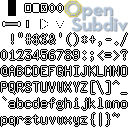
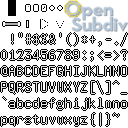
Minor cosmetic fixes to the HUD's font

Changed region(s): [[0.1875, 0.0, 0.5, 0.125]]

diff --git a/examples/common/font_image.cpp b/examples/common/font_image.cpp
@@ -125,16 +125,16 @@ unsigned char font_image[] = {
   0,   0,   0, 255,   0,   0,   0, 255,   0,   0,   0, 255,   0,   0,   0, 255, 
 255, 255, 255, 255, 255, 255, 255, 255, 255, 255, 255, 255, 255, 255, 255, 255, 
 255, 255, 255, 255, 255, 255, 255, 255, 255, 255, 255, 255, 255, 255, 255, 255, 
-  0,   0,   0,   0,   0,   0,   0, 255,   0,   0,   0, 255,   0,   0,   0, 255, 
-  0,   0,   0, 255,   0,   0,   0, 255,   0,   0,   0, 255,   0,   0,   0,   0, 
-  0,   0,   0,   0,   0,   0,   0, 255,   0,   0,   0, 255,   0,   0,   0, 255, 
-  0,   0,   0, 255,   0,   0,   0, 255,   0,   0,   0, 255,   0,   0,   0,   0, 
-  0,   0,   0,   0,   0,   0,   0, 255,   0,   0,   0, 255,   0,   0,   0, 255, 
-  0,   0,   0, 255,   0,   0,   0, 255,   0,   0,   0, 255,   0,   0,   0,   0, 
-  0,   0,   0,   0,   0,   0,   0,   0,   0,   0,   0,   0,   0,   0,   0, 255, 
-  0,   0,   0, 255,   0,   0,   0,   0,   0,   0,   0,   0,   0,   0,   0,   0, 
-  0,   0,   0,   0,   0,   0,   0,   0,   0,   0,   0,   0,   0,   0,   0, 255, 
-  0,   0,   0, 255,   0,   0,   0,   0,   0,   0,   0,   0,  11,  11,  11,   0, 
+  0,   0,   0,   0,   0,   0,   0,   0,   0,   0,   0,   0,   0,   0,   0,   0, 
+  0,   0,   0,   0,   0,   0,   0,   0,   0,   0,   0,   0,   0,   0,   0,   0, 
+  0,   0,   0,   0,   0,   0,   0,   0,   0,   0,   0,   0,   0,   0,   0,   0, 
+  0,   0,   0,   0,   0,   0,   0,   0,   0,   0,   0,   0,   0,   0,   0,   0, 
+  0,   0,   0,   0,   0,   0,   0,   0,   0,   0,   0,   0,   0,   0,   0,   0, 
+  0,   0,   0,   0,   0,   0,   0,   0,   0,   0,   0,   0,   0,   0,   0,   0, 
+  0,   0,   0,   0,   0,   0,   0,   0,   0,   0,   0,   0,   0,   0,   0,   0, 
+  0,   0,   0,   0,   0,   0,   0,   0,   0,   0,   0,   0,   0,   0,   0,   0, 
+  0,   0,   0,   0,   0,   0,   0,   0,   0,   0,   0,   0,   0,   0,   0,   0, 
+  0,   0,   0,   0,   0,   0,   0,   0,   0,   0,   0,   0,  11,  11,  11,   0, 
  16,  16,  16,   0, 243, 217,  25,  21, 221, 199,  31, 134, 153, 151, 101, 162, 
 168, 185, 207, 226, 190, 203, 191, 255, 217, 210, 106, 255, 204, 201, 124, 254, 
 202, 198, 118, 249, 203, 199, 119, 248, 206, 203, 120, 253, 214, 209, 113, 255, 
@@ -157,16 +157,16 @@ unsigned char font_image[] = {
   0,   0,   0, 255,   0,   0,   0, 255,   0,   0,   0, 255,   0,   0,   0, 255, 
 255, 255, 255, 255, 255, 255, 255, 255, 255, 255, 255, 255, 255, 255, 255, 255, 
 255, 255, 255, 255, 255, 255, 255, 255, 255, 255, 255, 255, 255, 255, 255, 255, 
-  0,   0,   0, 255, 255, 255, 255, 255, 255, 255, 255, 255, 255, 255, 255, 255, 
-255, 255, 255, 255, 255, 255, 255, 255, 255, 255, 255, 255,   0,   0,   0, 255, 
-  0,   0,   0, 255, 255, 255, 255, 255, 255, 255, 255, 255, 255, 255, 255, 255, 
-255, 255, 255, 255, 255, 255, 255, 255, 255, 255, 255, 255,   0,   0,   0, 255, 
-  0,   0,   0, 255, 255, 255, 255, 255, 255, 255, 255, 255, 255, 255, 255, 255, 
-255, 255, 255, 255, 255, 255, 255, 255, 255, 255, 255, 255,   0,   0,   0, 255, 
-  0,   0,   0,   0,   0,   0,   0,   0,   0,   0,   0, 255, 255, 255, 255, 255, 
-255, 255, 255, 255,   0,   0,   0, 255,   0,   0,   0,   0,   0,   0,   0,   0, 
-  0,   0,   0,   0,   0,   0,   0,   0,   0,   0,   0, 255, 255, 255, 255, 255, 
-255, 255, 255, 255,   0,   0,   0, 255,   0,   0,   0,   0,  13,  13,  13,   0, 
+  0,   0,   0,   0, 255, 255, 255,   0,   0,   0,   0, 255,   0,   0,   0, 255, 
+  0,   0,   0, 255,   0,   0,   0, 255, 255, 255, 255,   0,   0,   0,   0,   0, 
+  0,   0,   0,   0, 255, 255, 255,   0,   0,   0,   0, 255,   0,   0,   0, 255, 
+  0,   0,   0, 255,   0,   0,   0, 255, 255, 255, 255,   0,   0,   0,   0,   0, 
+  0,   0,   0,   0, 255, 255, 255,   0,   0,   0,   0, 255,   0,   0,   0, 255, 
+  0,   0,   0, 255,   0,   0,   0, 255, 255, 255, 255,   0,   0,   0,   0,   0, 
+  0,   0,   0,   0,   0,   0,   0,   0,   0,   0,   0,   0,   0,   0,   0,   0, 
+  0,   0,   0,   0,   0,   0,   0,   0,   0,   0,   0,   0,   0,   0,   0,   0, 
+  0,   0,   0,   0,   0,   0,   0,   0,   0,   0,   0,   0,   0,   0,   0,   0, 
+  0,   0,   0,   0,   0,   0,   0,   0,   0,   0,   0,   0,  13,  13,  13,   0, 
 241, 216,  25,  23, 226, 203,  30, 147, 143, 140,  91, 144, 169, 187, 211, 232, 
 192, 203, 184, 255, 210, 207, 121, 254, 166, 179, 185, 241, 136, 150, 171, 198, 
 120, 131, 152, 160, 125, 137, 160, 151, 149, 164, 189, 177, 180, 193, 190, 225, 
@@ -189,16 +189,16 @@ unsigned char font_image[] = {
   0,   0,   0, 255,   0,   0,   0, 255,   0,   0,   0, 255,   0,   0,   0, 255, 
 255, 255, 255, 255, 255, 255, 255, 255, 255, 255, 255, 255, 255, 255, 255, 255, 
 255, 255, 255, 255, 255, 255, 255, 255, 255, 255, 255, 255, 255, 255, 255, 255, 
-  0,   0,   0, 255, 255, 255, 255, 255,   0,   0,   0, 255,   0,   0,   0, 255, 
-  0,   0,   0, 255,   0,   0,   0, 255, 255, 255, 255, 255,   0,   0,   0, 255, 
-  0,   0,   0, 255, 255, 255, 255, 255, 255, 255, 255, 255, 255, 255, 255, 255, 
-255, 255, 255, 255, 255, 255, 255, 255, 255, 255, 255, 255,   0,   0,   0, 255, 
-  0,   0,   0, 255, 255, 255, 255, 255,   0,   0,   0, 255,   0,   0,   0, 255, 
-  0,   0,   0, 255,   0,   0,   0, 255, 255, 255, 255, 255,   0,   0,   0, 255, 
-  0,   0,   0,   0,   0,   0,   0, 255, 255, 255, 255, 255,   0,   0,   0, 255, 
-  0,   0,   0, 255, 255, 255, 255, 255,   0,   0,   0, 255,   0,   0,   0,   0, 
-  0,   0,   0,   0,   0,   0,   0, 255, 255, 255, 255, 255,   0,   0,   0, 255, 
-  0,   0,   0, 255, 255, 255, 255, 255,   0,   0,   0, 255,  15,  15,  15,   0, 
+  0,   0,   0,   0,   0,   0,   0, 255, 255, 255, 255, 255, 255, 255, 255, 255, 
+255, 255, 255, 255, 255, 255, 255, 255,   0,   0,   0, 255,   0,   0,   0,   0, 
+  0,   0,   0,   0,   0,   0,   0, 255, 255, 255, 255, 255, 255, 255, 255, 255, 
+255, 255, 255, 255, 255, 255, 255, 255,   0,   0,   0, 255,   0,   0,   0,   0, 
+  0,   0,   0,   0,   0,   0,   0, 255, 255, 255, 255, 255, 255, 255, 255, 255, 
+255, 255, 255, 255, 255, 255, 255, 255,   0,   0,   0, 255,   0,   0,   0,   0, 
+  0,   0,   0,   0,   0,   0,   0,   0,   0,   0,   0,   0,   0,   0,   0, 255, 
+  0,   0,   0, 255,   0,   0,   0,   0,   0,   0,   0,   0,   0,   0,   0,   0, 
+  0,   0,   0,   0,   0,   0,   0,   0,   0,   0,   0,   0,   0,   0,   0, 255, 
+  0,   0,   0, 255,   0,   0,   0,   0,   0,   0,   0,   0,  15,  15,  15,   0, 
 238, 214,  26, 120, 181, 165,  43, 182, 176, 181, 146, 188, 195, 204, 176, 255, 
 208, 206, 127, 254, 161, 174, 178, 236,  89,  92, 101, 142,  41,  35,  29,  46, 
   0,   0,   0,   5,  20,  20,  20,   0,   0,   0,   0,   9, 124, 135, 151,  74, 
@@ -221,16 +221,16 @@ unsigned char font_image[] = {
   0,   0,   0, 255,   0,   0,   0, 255,   0,   0,   0, 255,   0,   0,   0, 255, 
 255, 255, 255, 255, 255, 255, 255, 255, 255, 255, 255, 255, 255, 255, 255, 255, 
 255, 255, 255, 255, 255, 255, 255, 255, 255, 255, 255, 255, 255, 255, 255, 255, 
-  0,   0,   0, 255, 255, 255, 255, 255,   0,   0,   0, 255, 255, 255, 255,   0, 
-255, 255, 255,   0,   0,   0,   0, 255, 255, 255, 255, 255,   0,   0,   0, 255, 
-  0,   0,   0, 255, 255, 255, 255, 255, 255, 255, 255, 255, 255, 255, 255, 255, 
-255, 255, 255, 255, 255, 255, 255, 255, 255, 255, 255, 255,   0,   0,   0, 255, 
-  0,   0,   0, 255, 255, 255, 255, 255,   0,   0,   0, 255,   0,   0,   0,   0, 
-  0,   0,   0, 255, 255, 255, 255, 255, 255, 255, 255, 255,   0,   0,   0, 255, 
-  0,   0,   0, 255, 255, 255, 255, 255,   0,   0,   0, 255, 255, 255, 255,   0, 
-255, 255, 255,   0,   0,   0,   0, 255, 255, 255, 255, 255,   0,   0,   0, 255, 
-  0,   0,   0, 255, 255, 255, 255, 255,   0,   0,   0, 255, 255, 255, 255, 255, 
-255, 255, 255, 255,   0,   0,   0, 255, 255, 255, 255, 255,   0,   0,   0, 255, 
+  0,   0,   0,   0,   0,   0,   0, 255, 255, 255, 255, 255, 127, 127, 127,   0, 
+127, 127, 127, 255, 255, 255, 255, 255,   0,   0,   0, 255,   0,   0,   0,   0, 
+  0,   0,   0,   0,   0,   0,   0, 255, 255, 255, 255, 255, 255, 255, 255, 255, 
+255, 255, 255, 255, 255, 255, 255, 255,   0,   0,   0, 255,   0,   0,   0,   0, 
+  0,   0,   0,   0,   0,   0,   0, 255, 255, 255, 255, 255,   0,   0,   0,   0, 
+127, 127, 127, 255, 255, 255, 255, 255,   0,   0,   0, 255,   0,   0,   0,   0, 
+  0,   0,   0,   0,   0,   0,   0,   0,   0,   0,   0, 255, 255, 255, 255, 255, 
+255, 255, 255, 255,   0,   0,   0, 255,   0,   0,   0,   0,   0,   0,   0,   0, 
+  0,   0,   0,   0,   0,   0,   0,   0,   0,   0,   0, 255, 255, 255, 255, 255, 
+255, 255, 255, 255,   0,   0,   0, 255,   0,   0,   0,   0,   0,   0,   0,   0, 
 234, 211,  28, 137, 127, 123,  78, 140, 204, 206, 147, 255, 219, 209,  98, 254, 
 178, 194, 204, 251, 100, 105, 114, 166,  47,  42,  35,  24,  20,  20,  20,   0, 
  19,  19,  19,   0,  18,  18,  18,   0,  19,  19,  19,   0,  21,  21,  21,   0, 
@@ -253,16 +253,16 @@ unsigned char font_image[] = {
   0,   0,   0, 255,   0,   0,   0, 255,   0,   0,   0, 255,   0,   0,   0, 255, 
 255, 255, 255, 255, 255, 255, 255, 255, 255, 255, 255, 255, 255, 255, 255, 255, 
 255, 255, 255, 255, 255, 255, 255, 255, 255, 255, 255, 255, 255, 255, 255, 255, 
-  0,   0,   0, 255, 255, 255, 255, 255,   0,   0,   0, 255, 255, 255, 255,   0, 
-255, 255, 255,   0,   0,   0,   0, 255, 255, 255, 255, 255,   0,   0,   0, 255, 
-  0,   0,   0, 255, 255, 255, 255, 255, 255, 255, 255, 255, 255, 255, 255, 255, 
-255, 255, 255, 255, 255, 255, 255, 255, 255, 255, 255, 255,   0,   0,   0, 255, 
+  0,   0,   0,   0,   0,   0,   0, 255, 255, 255, 255, 255, 127, 127, 127,   0, 
+127, 127, 127,   0, 255, 255, 255, 255,   0,   0,   0, 255,   0,   0,   0,   0, 
+  0,   0,   0,   0,   0,   0,   0, 255, 255, 255, 255, 255, 255, 255, 255, 255, 
+255, 255, 255, 255, 255, 255, 255, 255,   0,   0,   0, 255,   0,   0,   0,   0, 
+  0,   0,   0,   0,   0,   0,   0, 255, 255, 255, 255, 255,   0,   0,   0,   0, 
   0,   0,   0, 255, 255, 255, 255, 255,   0,   0,   0, 255,   0,   0,   0,   0, 
-  0,   0,   0, 255, 255, 255, 255, 255, 255, 255, 255, 255,   0,   0,   0, 255, 
-  0,   0,   0, 255, 255, 255, 255, 255,   0,   0,   0, 255, 255, 255, 255,   0, 
-255, 255, 255,   0,   0,   0,   0, 255, 255, 255, 255, 255,   0,   0,   0, 255, 
-  0,   0,   0, 255, 255, 255, 255, 255,   0,   0,   0, 255, 255, 255, 255, 255, 
-255, 255, 255, 255,   0,   0,   0, 255, 255, 255, 255, 255,   0,   0,   0, 255, 
+  0,   0,   0,   0,   0,   0,   0, 255, 255, 255, 255, 255, 255, 255, 255,   0, 
+255, 255, 255,   0, 255, 255, 255, 255,   0,   0,   0, 255,   0,   0,   0,   0, 
+  0,   0,   0,   0,   0,   0,   0, 255, 255, 255, 255, 255, 255, 255, 255, 255, 
+255, 255, 255, 255, 255, 255, 255, 255,   0,   0,   0, 255,   0,   0,   0,   0, 
 234, 210,  28, 136, 117, 127, 145, 126, 179, 198, 221, 255, 210, 207, 121, 254, 
 162, 179, 200, 238,  61,  58,  56,  86,  12,  12,  12,   0,  18,  18,  18,   0, 
  21,  21,  21,   0,  22,  22,  22,   0,  19,  19,  19,   0,  20,  20,  20,   0, 
@@ -285,16 +285,16 @@ unsigned char font_image[] = {
   0,   0,   0, 255,   0,   0,   0, 255,   0,   0,   0, 255,   0,   0,   0, 255, 
 255, 255, 255, 255, 255, 255, 255, 255, 255, 255, 255, 255, 255, 255, 255, 255, 
 255, 255, 255, 255, 255, 255, 255, 255, 255, 255, 255, 255, 255, 255, 255, 255, 
-  0,   0,   0, 255, 255, 255, 255, 255,   0,   0,   0, 255, 255, 255, 255,   0, 
-255, 255, 255,   0,   0,   0,   0, 255, 255, 255, 255, 255,   0,   0,   0, 255, 
-  0,   0,   0, 255, 255, 255, 255, 255, 255, 255, 255, 255, 255, 255, 255, 255, 
-255, 255, 255, 255, 255, 255, 255, 255, 255, 255, 255, 255,   0,   0,   0, 255, 
-  0,   0,   0, 255, 255, 255, 255, 255,   0,   0,   0, 255,   0,   0,   0, 255, 
-255, 255, 255, 255,   0,   0,   0, 255, 255, 255, 255, 255,   0,   0,   0, 255, 
-  0,   0,   0, 255, 255, 255, 255, 255,   0,   0,   0, 255, 255, 255, 255,   0, 
-255, 255, 255,   0,   0,   0,   0, 255, 255, 255, 255, 255,   0,   0,   0, 255, 
-  0,   0,   0, 255, 255, 255, 255, 255,   0,   0,   0, 255, 255, 255, 255, 255, 
-255, 255, 255, 255,   0,   0,   0, 255, 255, 255, 255, 255,   0,   0,   0, 255, 
+  0,   0,   0,   0,   0,   0,   0, 255, 255, 255, 255, 255, 127, 127, 127,   0, 
+127, 127, 127,   0, 255, 255, 255, 255,   0,   0,   0, 255,   0,   0,   0,   0, 
+  0,   0,   0,   0,   0,   0,   0, 255, 255, 255, 255, 255, 255, 255, 255, 255, 
+255, 255, 255, 255, 255, 255, 255, 255,   0,   0,   0, 255,   0,   0,   0,   0, 
+  0,   0,   0,   0,   0,   0,   0, 255, 255, 255, 255, 255,   0,   0,   0, 255, 
+255, 255, 255, 255, 255, 255, 255, 255,   0,   0,   0, 255,   0,   0,   0,   0, 
+  0,   0,   0,   0,   0,   0,   0, 255, 255, 255, 255, 255, 255, 255, 255,   0, 
+255, 255, 255,   0, 255, 255, 255, 255,   0,   0,   0, 255,   0,   0,   0,   0, 
+  0,   0,   0,   0,   0,   0,   0, 255, 255, 255, 255, 255, 255, 255, 255, 255, 
+255, 255, 255, 255, 255, 255, 255, 255,   0,   0,   0, 255,   0,   0,   0,   0, 
 234, 210,  28, 136, 132, 141, 153, 152, 181, 198, 214, 255, 211, 207, 119, 254, 
 152, 167, 184, 226,  60,  57,  55,  49,  17,  17,  17,   0,  21,  21,  21,   0, 
  20,  20,  20,   0,  22,  22,  22,   0,  15,  15,  15,   0,  20,  20,  20,   0, 
@@ -317,16 +317,16 @@ unsigned char font_image[] = {
   0,   0,   0, 255,   0,   0,   0, 255,   0,   0,   0, 255,   0,   0,   0, 255, 
 255, 255, 255, 255, 255, 255, 255, 255, 255, 255, 255, 255, 255, 255, 255, 255, 
 255, 255, 255, 255, 255, 255, 255, 255, 255, 255, 255, 255, 255, 255, 255, 255, 
-  0,   0,   0, 255, 255, 255, 255, 255,   0,   0,   0, 255, 255, 255, 255,   0, 
-255, 255, 255,   0,   0,   0,   0, 255, 255, 255, 255, 255,   0,   0,   0, 255, 
-  0,   0,   0, 255, 255, 255, 255, 255, 255, 255, 255, 255, 255, 255, 255, 255, 
-255, 255, 255, 255, 255, 255, 255, 255, 255, 255, 255, 255,   0,   0,   0, 255, 
-  0,   0,   0, 255, 255, 255, 255, 255, 255, 255, 255, 255,   0,   0,   0, 255, 
-255, 255, 255, 255,   0,   0,   0, 255, 255, 255, 255, 255,   0,   0,   0, 255, 
-  0,   0,   0, 255, 255, 255, 255, 255,   0,   0,   0, 255, 255, 255, 255,   0, 
-255, 255, 255,   0,   0,   0,   0, 255, 255, 255, 255, 255,   0,   0,   0, 255, 
-  0,   0,   0, 255, 255, 255, 255, 255,   0,   0,   0, 255, 255, 255, 255, 255, 
-255, 255, 255, 255,   0,   0,   0, 255, 255, 255, 255, 255,   0,   0,   0, 255, 
+  0,   0,   0,   0,   0,   0,   0, 255, 255, 255, 255, 255, 127, 127, 127,   0, 
+127, 127, 127,   0, 255, 255, 255, 255,   0,   0,   0, 255,   0,   0,   0,   0, 
+  0,   0,   0,   0,   0,   0,   0, 255, 255, 255, 255, 255, 255, 255, 255, 255, 
+255, 255, 255, 255, 255, 255, 255, 255,   0,   0,   0, 255,   0,   0,   0,   0, 
+  0,   0,   0,   0,   0,   0,   0, 255, 255, 255, 255, 255, 255, 255, 255, 255, 
+255, 255, 255,   0, 255, 255, 255, 255,   0,   0,   0, 255,   0,   0,   0,   0, 
+  0,   0,   0,   0,   0,   0,   0,   0,   0,   0,   0, 255, 255, 255, 255, 255, 
+255, 255, 255, 255,   0,   0,   0, 255,   0,   0,   0,   0,   0,   0,   0,   0, 
+  0,   0,   0,   0,   0,   0,   0,   0,   0,   0,   0, 255, 255, 255, 255, 255, 
+255, 255, 255, 255,   0,   0,   0, 255,   0,   0,   0,   0,   0,   0,   0,   0, 
 234, 210,  28, 135, 123, 132, 146, 136, 179, 198, 220, 255, 210, 207, 122, 254, 
 162, 178, 198, 232,  47,  42,  37,  45,   0,   0,   0,   0,  19,  19,  19,   0, 
  18,  18,  18,   0,  19,  19,  19,   0,  12,  12,  12,   0,   0,   0,   0,   0, 
@@ -349,16 +349,16 @@ unsigned char font_image[] = {
   0,   0,   0, 255,   0,   0,   0, 255,   0,   0,   0, 255,   0,   0,   0, 255, 
 255, 255, 255, 255, 255, 255, 255, 255, 255, 255, 255, 255, 255, 255, 255, 255, 
 255, 255, 255, 255, 255, 255, 255, 255, 255, 255, 255, 255, 255, 255, 255, 255, 
-  0,   0,   0, 255, 255, 255, 255, 255,   0,   0,   0, 255,   0,   0,   0, 255, 
-  0,   0,   0, 255,   0,   0,   0, 255, 255, 255, 255, 255,   0,   0,   0, 255, 
-  0,   0,   0, 255, 255, 255, 255, 255, 255, 255, 255, 255, 255, 255, 255, 255, 
-255, 255, 255, 255, 255, 255, 255, 255, 255, 255, 255, 255,   0,   0,   0, 255, 
-  0,   0,   0, 255, 255, 255, 255, 255,   0,   0,   0, 255, 255, 255, 255, 255, 
-  0,   0,   0, 255,   0,   0,   0, 255, 255, 255, 255, 255,   0,   0,   0, 255, 
-  0,   0,   0,   0,   0,   0,   0, 255, 255, 255, 255, 255,   0,   0,   0, 255, 
-  0,   0,   0, 255, 255, 255, 255, 255,   0,   0,   0, 255,   0,   0,   0,   0, 
-  0,   0,   0,   0,   0,   0,   0, 255, 255, 255, 255, 255,   0,   0,   0, 255, 
-  0,   0,   0, 255, 255, 255, 255, 255,   0,   0,   0, 255,   8,   8,   8,   0, 
+  0,   0,   0,   0,   0,   0,   0, 255, 255, 255, 255, 255, 255, 255, 255, 255, 
+255, 255, 255, 255, 255, 255, 255, 255,   0,   0,   0, 255,   0,   0,   0,   0, 
+  0,   0,   0,   0,   0,   0,   0, 255, 255, 255, 255, 255, 255, 255, 255, 255, 
+255, 255, 255, 255, 255, 255, 255, 255,   0,   0,   0, 255,   0,   0,   0,   0, 
+  0,   0,   0,   0,   0,   0,   0, 255, 255, 255, 255, 255, 255, 255, 255, 255, 
+255, 255, 255, 255, 255, 255, 255, 255,   0,   0,   0, 255,   0,   0,   0,   0, 
+  0,   0,   0,   0,   0,   0,   0,   0,   0,   0,   0,   0,   0,   0,   0, 255, 
+  0,   0,   0, 255,   0,   0,   0,   0,   0,   0,   0,   0,   0,   0,   0,   0, 
+  0,   0,   0,   0,   0,   0,   0,   0,   0,   0,   0,   0,   0,   0,   0, 255, 
+  0,   0,   0, 255,   0,   0,   0,   0,   0,   0,   0,   0,   8,   8,   8,   0, 
 234, 210,  28, 136, 104, 107,  99, 101, 202, 206, 157, 255, 221, 210,  89, 255, 
 174, 193, 217, 246, 102, 108, 114,  90,   0,   0,   0,   0,  11,  11,  11,   0, 
  14,  14,  14,   0,  14,  14,  14,   0,   0,   0,   0,   0,  38,  38,  38,   0, 
@@ -381,16 +381,16 @@ unsigned char font_image[] = {
   0,   0,   0, 255,   0,   0,   0, 255,   0,   0,   0, 255,   0,   0,   0, 255, 
 255, 255, 255, 255, 255, 255, 255, 255, 255, 255, 255, 255, 255, 255, 255, 255, 
 255, 255, 255, 255, 255, 255, 255, 255, 255, 255, 255, 255, 255, 255, 255, 255, 
-  0,   0,   0, 255, 255, 255, 255, 255, 255, 255, 255, 255, 255, 255, 255, 255, 
-255, 255, 255, 255, 255, 255, 255, 255, 255, 255, 255, 255,   0,   0,   0, 255, 
-  0,   0,   0, 255, 255, 255, 255, 255, 255, 255, 255, 255, 255, 255, 255, 255, 
-255, 255, 255, 255, 255, 255, 255, 255, 255, 255, 255, 255,   0,   0,   0, 255, 
-  0,   0,   0, 255, 255, 255, 255, 255, 255, 255, 255, 255, 255, 255, 255, 255, 
-255, 255, 255, 255, 255, 255, 255, 255, 255, 255, 255, 255,   0,   0,   0, 255, 
-  0,   0,   0,   0,   0,   0,   0,   0,   0,   0,   0, 255, 255, 255, 255, 255, 
-255, 255, 255, 255,   0,   0,   0, 255,   0,   0,   0,   0,   0,   0,   0,   0, 
-  0,   0,   0,   0,   0,   0,   0,   0,   0,   0,   0, 255, 255, 255, 255, 255, 
-255, 255, 255, 255,   0,   0,   0, 255,   0,   0,   0,   0,   7,   7,   7,   0, 
+  0,   0,   0,   0, 255, 255, 255,   0,   0,   0,   0, 255,   0,   0,   0, 255, 
+  0,   0,   0, 255,   0,   0,   0, 255, 255, 255, 255,   0,   0,   0,   0,   0, 
+  0,   0,   0,   0, 255, 255, 255,   0,   0,   0,   0, 255,   0,   0,   0, 255, 
+  0,   0,   0, 255,   0,   0,   0, 255, 255, 255, 255,   0,   0,   0,   0,   0, 
+  0,   0,   0,   0, 255, 255, 255,   0,   0,   0,   0, 255,   0,   0,   0, 255, 
+  0,   0,   0, 255,   0,   0,   0, 255, 255, 255, 255,   0,   0,   0,   0,   0, 
+  0,   0,   0,   0,   0,   0,   0,   0,   0,   0,   0,   0,   0,   0,   0,   0, 
+  0,   0,   0,   0,   0,   0,   0,   0,   0,   0,   0,   0,   0,   0,   0,   0, 
+  0,   0,   0,   0,   0,   0,   0,   0,   0,   0,   0,   0,   0,   0,   0,   0, 
+  0,   0,   0,   0,   0,   0,   0,   0,   0,   0,   0,   0,   7,   7,   7,   0, 
 238, 213,  27, 139, 181, 165,  44, 181, 178, 183, 151, 218, 196, 203, 169, 255, 
 210, 206, 124, 253, 162, 179, 202, 199,  54,  54,  56,  18,   0,   0,   0,   0, 
   0,   0,   0,   0,   0,   0,   0,   0,   0,   0,   0,   0, 167, 193, 249,  14, 
@@ -413,16 +413,16 @@ unsigned char font_image[] = {
   0,   0,   0, 255,   0,   0,   0, 255,   0,   0,   0, 255,   0,   0,   0, 255, 
 255, 255, 255, 255, 255, 255, 255, 255, 255, 255, 255, 255, 255, 255, 255, 255, 
 255, 255, 255, 255, 255, 255, 255, 255, 255, 255, 255, 255, 255, 255, 255, 255, 
-  0,   0,   0,   0,   0,   0,   0, 255,   0,   0,   0, 255,   0,   0,   0, 255, 
-  0,   0,   0, 255,   0,   0,   0, 255,   0,   0,   0, 255,   0,   0,   0,   0, 
-  0,   0,   0,   0,   0,   0,   0, 255,   0,   0,   0, 255,   0,   0,   0, 255, 
-  0,   0,   0, 255,   0,   0,   0, 255,   0,   0,   0, 255,   0,   0,   0,   0, 
-  0,   0,   0, 255,   0,   0,   0, 255,   0,   0,   0, 255,   0,   0,   0, 255, 
-  0,   0,   0, 255,   0,   0,   0, 255,   0,   0,   0, 255,   0,   0,   0,   0, 
-  0,   0,   0,   0,   0,   0,   0,   0,   0,   0,   0,   0,   0,   0,   0, 255, 
-  0,   0,   0, 255,   0,   0,   0,   0,   0,   0,   0,   0,   0,   0,   0,   0, 
-  0,   0,   0,   0,   0,   0,   0,   0,   0,   0,   0,   0,   0,   0,   0, 255, 
-  0,   0,   0, 255,   0,   0,   0,   0,   0,   0,   0,   0,  13,  13,  13,   0, 
+  0,   0,   0,   0,   0,   0,   0,   0,   0,   0,   0,   0,   0,   0,   0,   0, 
+  0,   0,   0,   0,   0,   0,   0,   0,   0,   0,   0,   0,   0,   0,   0,   0, 
+  0,   0,   0,   0,   0,   0,   0,   0,   0,   0,   0,   0,   0,   0,   0,   0, 
+  0,   0,   0,   0,   0,   0,   0,   0,   0,   0,   0,   0,   0,   0,   0,   0, 
+  0,   0,   0,   0,   0,   0,   0,   0,   0,   0,   0,   0,   0,   0,   0,   0, 
+  0,   0,   0,   0,   0,   0,   0,   0,   0,   0,   0,   0,   0,   0,   0,   0, 
+  0,   0,   0,   0,   0,   0,   0,   0,   0,   0,   0,   0,   0,   0,   0,   0, 
+  0,   0,   0,   0,   0,   0,   0,   0,   0,   0,   0,   0,   0,   0,   0,   0, 
+  0,   0,   0,   0,   0,   0,   0,   0,   0,   0,   0,   0,   0,   0,   0,   0, 
+  0,   0,   0,   0,   0,   0,   0,   0,   0,   0,   0,   0,  13,  13,  13,   0, 
 201, 182,  37,  37, 209, 188,  35, 196, 145, 147, 119,  96, 179, 196, 214, 242, 
 193, 202, 176, 255, 211, 206, 116, 251, 172, 190, 214, 197, 164, 184, 221,  88, 
 155, 183, 250,  32, 163, 189, 255,  34, 172, 195, 234,  92, 183, 198, 206, 197, 
